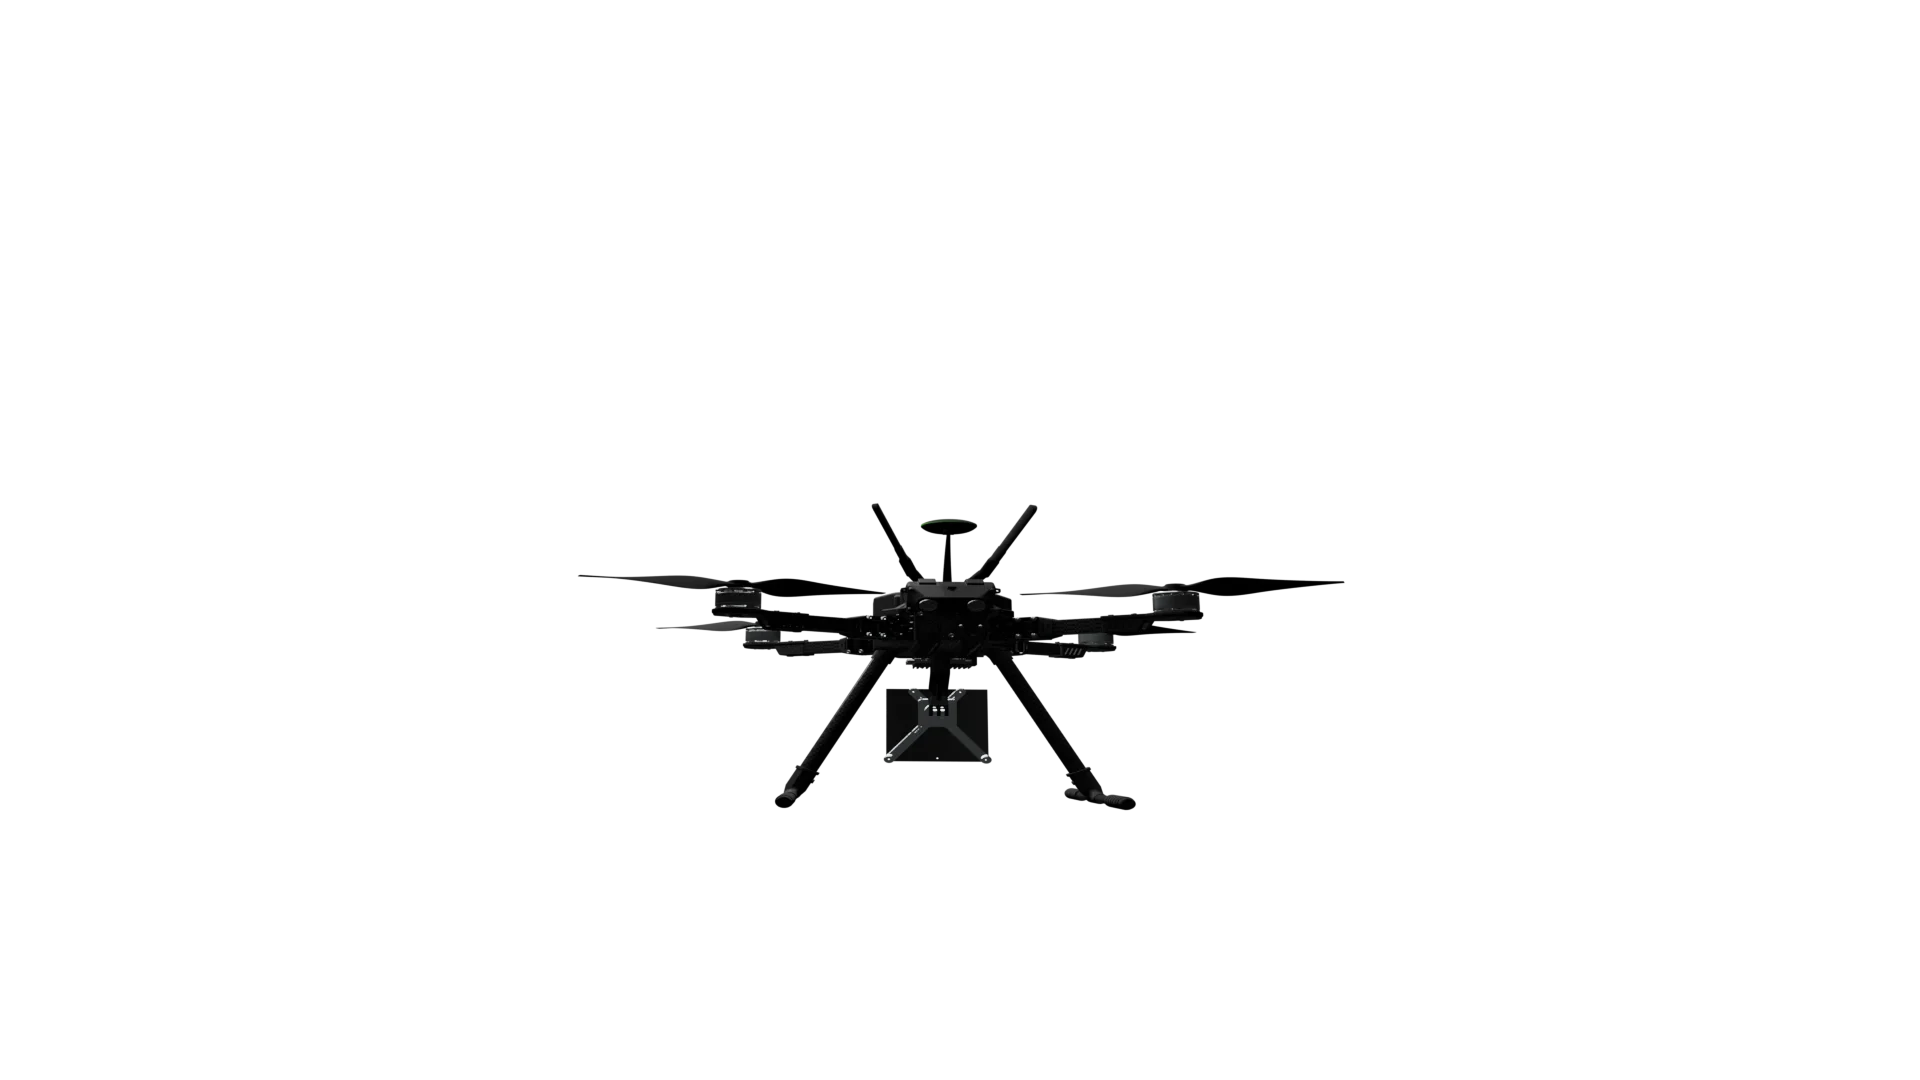
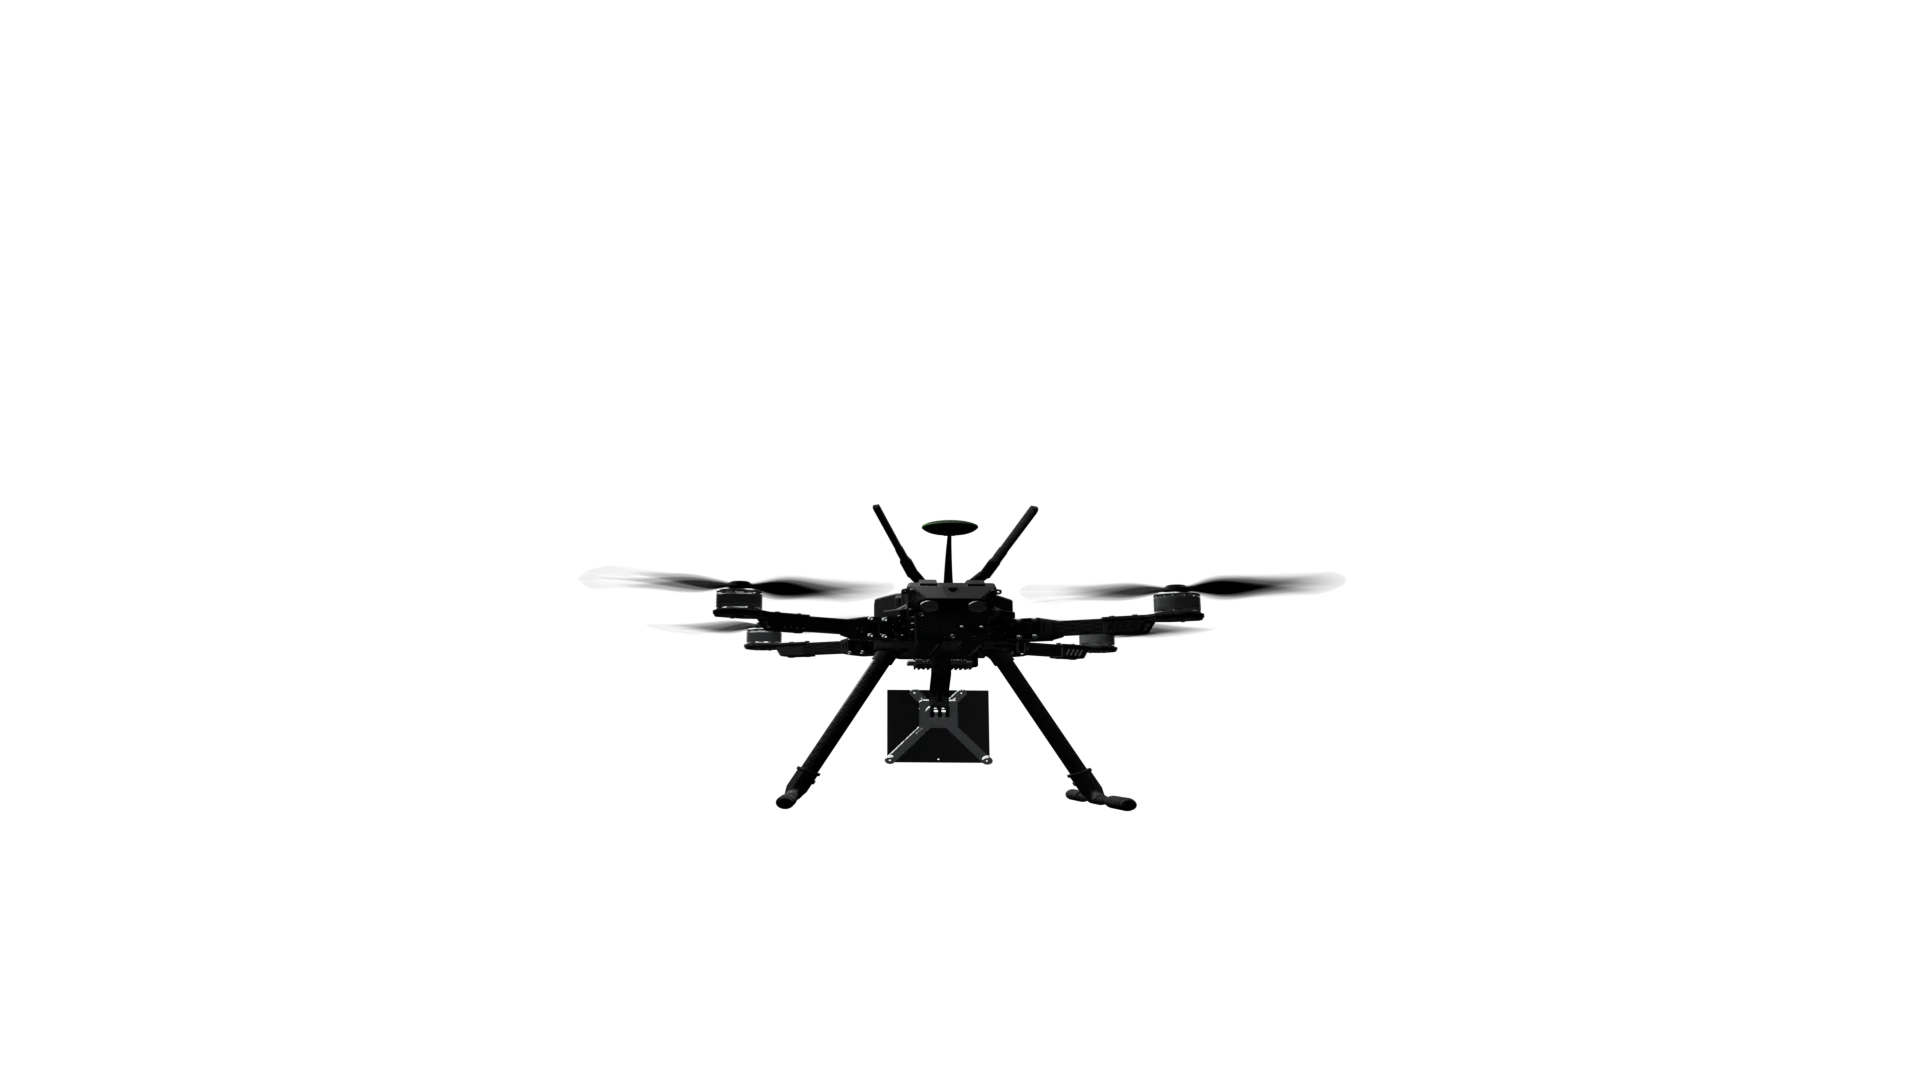
Las hélices giran, con el desenfoque hecho en Blender
Sustituye los fotogramas 111-126 por un reexportado del mismo tramo con
motion blur activado (obturador 2.0, steps 3). Es lo que les faltaba: tal
cual salían del render, las aspas eran siluetas negras muy contrastadas y
alternarlas no se leía como giro sino como parpadeo.

Con el desenfoque, el rastro de cada fotograma cubre más que el paso al
siguiente, así que no quedan huecos y el bucle puede ir despacio sin que se
noten los saltos. El tramo es el 116-121 (índices 115-120), elegido midiendo
las nueve ventanas posibles: su salto al cerrar cuesta 0.691 cuando un paso
normal cuesta 0.992, o sea que volver al principio sale más barato que
avanzar. En móvil, que va de dos en dos, son tres pasos y cierra igual.

Los fotogramas del bucle van desplazados en bloque para que el cuerpo no se
mezca al repetirse. Es un desplazamiento entero de píxeles, así que no toca
la nitidez; el desenfoque sigue siendo solo el de Blender, que está donde hay
movimiento y por tanto solo en las palas (el borde del cuerpo mide 77.60 en
el render con blur contra 77.65 en el original).

Se probó también promediar fotogramas por software para aplanar el parpadeo.
Baja del 8.3% al 3.6%, pero emborrona brazos y motores, que son cuerpo. No
compensa y se descartó.

diff --git a/airhive-website/src/Components/DroneShowcase/droneTrack.js b/airhive-website/src/Components/DroneShowcase/droneTrack.js
@@ -126,22 +126,22 @@ const DRONE_TRACK = [
   [0.3109, 0.4639, 0.6568, 0.7519],
   [0.3521, 0.4648, 0.6177, 0.7519],
   [0.3526, 0.4648, 0.6349, 0.7519],
-  [0.3214, 0.4648, 0.6682, 0.7519],
-  [0.3010, 0.4657, 0.6911, 0.7509],
-  [0.2979, 0.4657, 0.6984, 0.7509],
-  [0.3172, 0.4657, 0.6844, 0.7509],
-  [0.3583, 0.4657, 0.6490, 0.7509],
-  [0.3609, 0.4657, 0.6255, 0.7500],
-  [0.3292, 0.4657, 0.6573, 0.7500],
-  [0.3073, 0.4657, 0.6854, 0.7500],
-  [0.3005, 0.4657, 0.7000, 0.7500],
-  [0.3151, 0.4657, 0.6943, 0.7500],
-  [0.3505, 0.4648, 0.6646, 0.7491],
-  [0.3693, 0.4639, 0.6255, 0.7491],
-  [0.3349, 0.4620, 0.6448, 0.7472],
-  [0.3073, 0.4593, 0.6740, 0.7444],
-  [0.2932, 0.4556, 0.6896, 0.7407],
-  [0.2974, 0.4519, 0.6865, 0.7370],
+  [0.3031, 0.4648, 0.6885, 0.7509],
+  [0.2979, 0.4667, 0.6974, 0.7509],
+  [0.2974, 0.4667, 0.6974, 0.7509],
+  [0.2995, 0.4648, 0.6969, 0.7491],
+  [0.3224, 0.4630, 0.6828, 0.7472],
+  [0.3344, 0.4630, 0.6552, 0.7472],
+  [0.3120, 0.4648, 0.6854, 0.7491],
+  [0.3031, 0.4667, 0.7000, 0.7509],
+  [0.3010, 0.4667, 0.7005, 0.7509],
+  [0.3016, 0.4657, 0.7000, 0.7500],
+  [0.3203, 0.4630, 0.6932, 0.7481],
+  [0.3422, 0.4611, 0.6630, 0.7481],
+  [0.3156, 0.4611, 0.6755, 0.7491],
+  [0.3016, 0.4630, 0.6948, 0.7519],
+  [0.3016, 0.4620, 0.6984, 0.7519],
+  [0.2932, 0.4481, 0.6901, 0.7389],
   [0.3229, 0.4472, 0.6583, 0.7324],
   [0.3526, 0.4417, 0.6115, 0.7278],
   [0.3271, 0.4370, 0.6167, 0.7222],

diff --git a/airhive-website/src/Components/EntradaAlmacen/EntradaAlmacen.jsx b/airhive-website/src/Components/EntradaAlmacen/EntradaAlmacen.jsx
@@ -251,13 +251,13 @@ const INCLINACION = 5; // grados que se ladea el dron hacia donde avanza
  * blur, que empiece y termine en el mismo ángulo de aspa. Cuando llegue:
  * apuntar BUCLE_ESCRITORIO / BUCLE_MOVIL a esos fotogramas y poner esto en true.
  */
-const HELICES_EN_BUCLE = false;
+const HELICES_EN_BUCLE = true;
 
 /** Índices (fotograma - 1) donde empieza y termina el giro de 180°. */
 const GIRO_DESDE = 58;
 const GIRO_HASTA = 119;
-const BUCLE_ESCRITORIO = { desde: 116, hasta: 119, fps: 16 }; // índices = fotograma - 1
-const BUCLE_MOVIL = { desde: 58, hasta: 60, fps: 12 }; // índice i = fotograma 2i + 1
+const BUCLE_ESCRITORIO = { desde: 115, hasta: 120, fps: 6 }; // índices = fotograma - 1
+const BUCLE_MOVIL = { desde: 58, hasta: 60, fps: 3 }; // índice i = fotograma 2i + 1
 
 /**
  * El balanceo de flotar.
